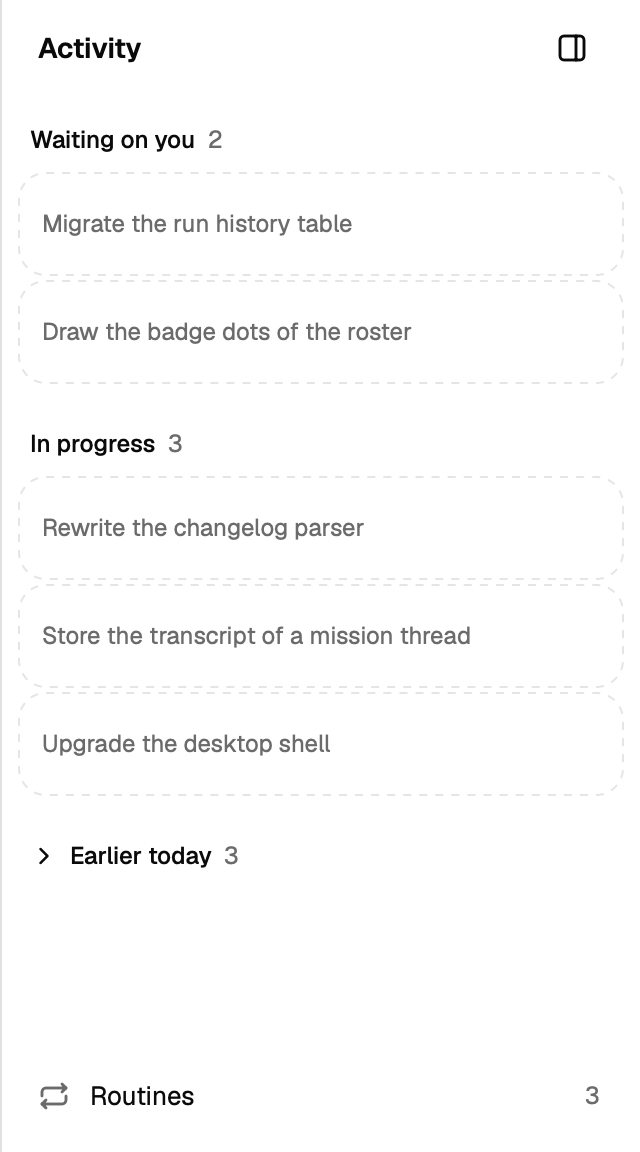
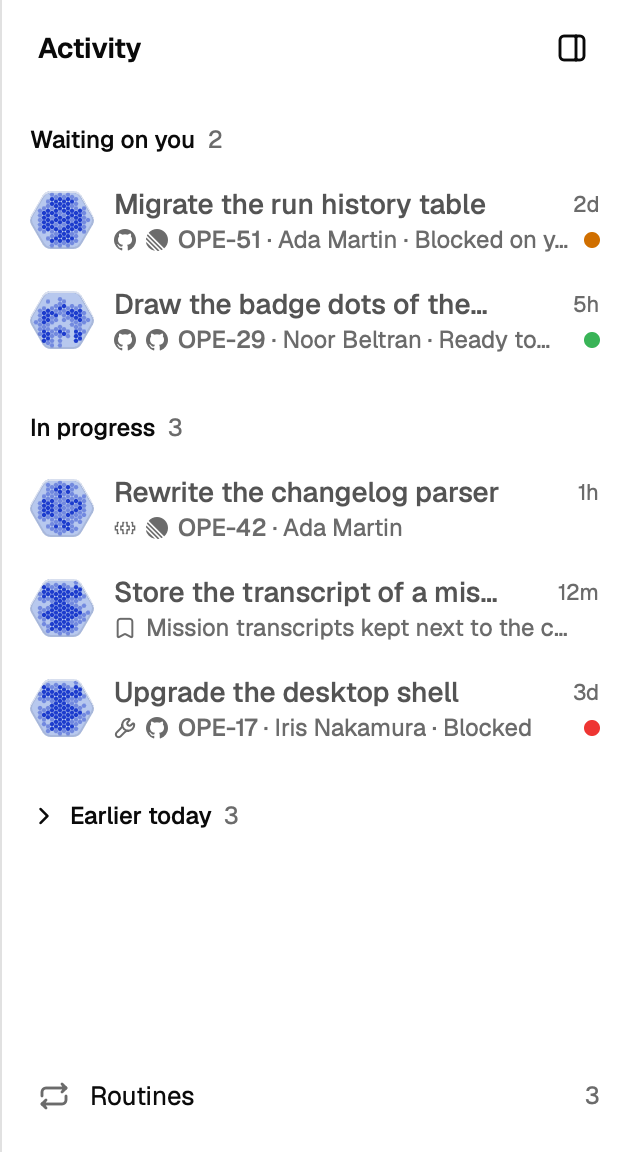
feat(rune-preview): draw the routines panel missions with the S8 views (OPE-1983)
The missions loading state uses missions_feed_skeleton from s08_missions,
the component the routines panel shows in packages/ui, instead of a local
copy with sharp hexagons. The panel scenes fill the mission slot with
S8's mission_row and its fixtures instead of dashed stand-ins. The eight
panel scenes that show missions get new macOS baselines; every other
scene still matches.

diff --git a/apps/rune-preview/kit/src/surfaces/s09_routines/panel.rs b/apps/rune-preview/kit/src/surfaces/s09_routines/panel.rs
@@ -1,19 +1,19 @@
 use std::f32::consts::TAU;
 
-use rune::{El, ScrollSpec, Shape, canvas, col, el, icon, row, text};
+use rune::{El, ScrollSpec, col, el, icon, row, text};
 
-use super::reported_run::{ACTIVITY_AVATAR, ReportedRun, reported_run_row};
+use super::reported_run::{ReportedRun, reported_run_row};
 use super::row::{ROW_GAP, RoutineRow, routine_row_skeleton, routine_rows};
 use super::{
-	Emit, Retry, RoutinesEvent, bar, bar_line, emits, empty_state, faint_bar, filling_skeleton,
-	glyph, icon_button, notice, ringed, say, tabular,
+	Emit, Retry, RoutinesEvent, emits, empty_state, filling_skeleton, glyph, icon_button, notice,
+	ringed, say, tabular,
 };
 use crate::icons;
 use crate::primitives::button::{Button, ButtonSize, ButtonVariant};
 use crate::primitives::dialog::scrim;
-use crate::primitives::skeleton::skeleton;
 use crate::primitives::{elevated, popup_motion};
 use crate::strings::{Key, Language, chat, common};
+use crate::surfaces::s08_missions::missions_feed_skeleton;
 use crate::tokens::{
 	RADIUS_2XL, RADIUS_LG, RADIUS_XL, SHELL_INSET, SPACING, TEXT_BASE_SEMIBOLD, TEXT_COMPACT,
 	TEXT_SM, TEXT_SM_SEMIBOLD, TEXT_XS, TEXT_XS_MEDIUM, Tokens, faded,
@@ -31,20 +31,7 @@ const FOLD_GLYPH: f32 = SPACING * 3.5;
 const ENTRY: f32 = SPACING * 10.0;
 const ENTRY_GLYPH: f32 = SPACING * 4.0;
 const SKELETON_ROWS: usize = 16;
-const SKELETON_GROUPS: usize = 8;
-const GROUP_BAR: f32 = SPACING * 2.25;
-const STAMP_BAR: f32 = SPACING * 7.0;
-const MISSION_GROUP_SHAPES: [(f32, &[(f32, f32)]); 2] = [
-	(SPACING * 23.0, &[(SPACING * 37.5, SPACING * 42.5), (SPACING * 31.0, SPACING * 37.5)]),
-	(
-		SPACING * 17.5,
-		&[
-			(SPACING * 42.0, SPACING * 46.0),
-			(SPACING * 33.0, SPACING * 24.0),
-			(SPACING * 36.0, SPACING * 40.0),
-		],
-	),
-];
+const FEED_REACH: f32 = SPACING * 512.0;
 const CONFIRM_WIDTH: f32 = SPACING * 88.0;
 const CONFIRM_INSET: f32 = SPACING * 5.0;
 
@@ -289,65 +276,6 @@ fn folded_group<S: 'static>(
 	if open { group.child(group_list(rows)) } else { group }
 }
 
-fn hexagon(t: &Tokens, side: f32) -> El {
-	let half = side / 2.0;
-	let corners: Vec<[f32; 2]> = (0..6)
-		.map(|corner| {
-			let angle = corner as f32 * TAU / 6.0;
-			[half + half * angle.cos(), half + half * angle.sin()]
-		})
-		.collect();
-	canvas(Shape::new().view_box(side, side).fill(corners, t.border)).size(side, side)
-}
-
-fn mission_row_skeleton(t: &Tokens, (title, preview): (f32, f32)) -> El {
-	row()
-		.w_full()
-		.gap(SPACING * 2.5)
-		.center_y()
-		.py(SPACING * 1.5)
-		.pl(SPACING * 1.5)
-		.pr(SPACING * 3.0)
-		.child(hexagon(t, ACTIVITY_AVATAR))
-		.child(
-			col()
-				.grow(1.0)
-				.min_w(0.0)
-				.child(
-					row()
-						.w_full()
-						.h(SPACING * 5.0)
-						.justify_between()
-						.center_y()
-						.child(bar(t, title))
-						.child(faint_bar(t, STAMP_BAR)),
-				)
-				.child(bar_line(SPACING * 4.0, faint_bar(t, preview))),
-		)
-}
-
-fn missions_skeleton(t: &Tokens) -> El {
-	let groups = (0..SKELETON_GROUPS).map(|rank| {
-		let (head, rows) = MISSION_GROUP_SHAPES[rank % MISSION_GROUP_SHAPES.len()];
-		col()
-			.w_full()
-			.child(
-				row()
-					.h(GROUP_HEAD)
-					.px(GROUP_HEAD_INSET)
-					.center_y()
-					.child(skeleton(t).size(head, GROUP_BAR).radius(GROUP_BAR).fill(t.border)),
-			)
-			.child(
-				col()
-					.w_full()
-					.gap(GROUP_ROW_GAP)
-					.children(rows.iter().map(|&widths| mission_row_skeleton(t, widths))),
-			)
-	});
-	filling_skeleton(groups, SPACING * 3.0)
-}
-
 pub fn activity<S: 'static>(
 	t: &Tokens,
 	lang: Language,
@@ -358,7 +286,7 @@ pub fn activity<S: 'static>(
 	let body = col().w_full().grow(1.0).gap(SPACING * 4.0);
 	let Missions::Listed { waiting, in_progress, earlier_today, earlier_today_open } = missions
 	else {
-		return body.child(missions_skeleton(t));
+		return body.child(filling_skeleton([missions_feed_skeleton(t, FEED_REACH)], 0.0));
 	};
 	if waiting.is_empty() && in_progress.is_empty() && earlier_today.is_empty() {
 		if notice_shown {

diff --git a/apps/rune-preview/kit/src/scenes/routines.rs b/apps/rune-preview/kit/src/scenes/routines.rs
@@ -1,8 +1,11 @@
-use rune::{El, TextEdit, col, row, text};
+use rune::{El, TextEdit, col, row};
 
-use super::{SceneState, stage, staged};
+use std::rc::Rc;
+
+use super::{SceneState, missions, stage, staged};
 use crate::hues::Preset;
 use crate::strings::Language;
+use crate::surfaces::s08_missions::{Emit as MissionsEmit, Mission, mission_row};
 use crate::surfaces::s09_routines::detail::{
 	History, Outcome, RoutineDetail, Run, RunRefusal, routine_detail,
 };
@@ -15,12 +18,10 @@ use crate::surfaces::s09_routines::panel::{
 	Confirm, EarlierToday, Failure, Missions, Page, PanelChrome, Routines, activity, confirm_layer,
 	panel, routines_page,
 };
-use crate::surfaces::s09_routines::reported_run::{
-	ACTIVITY_ROW_HEIGHT, ReportedRun, reported_run_row,
-};
+use crate::surfaces::s09_routines::reported_run::{ReportedRun, reported_run_row};
 use crate::surfaces::s09_routines::row::{RoutineRow, routine_row};
 use crate::surfaces::s09_routines::{PANEL_WIDTH, RoutinesEvent};
-use crate::tokens::{RADIUS_XL, SPACING, TEXT_XS, Tokens};
+use crate::tokens::{SPACING, Tokens};
 
 const EN: Language = Language::En;
 const SCENE_INSET: f32 = SPACING * 6.0;
@@ -172,14 +173,9 @@ const LATE_REPORTED_RUN: ReportedRun = ReportedRun {
 	time: "10:04",
 };
 
-const WAITING_MISSIONS: [&str; 2] =
-	["Migrate the run history table", "Draw the badge dots of the roster"];
-const WORKING_MISSIONS: [&str; 3] = [
-	"Rewrite the changelog parser",
-	"Store the transcript of a mission thread",
-	"Upgrade the desktop shell",
-];
-const CLOSED_MISSION: &str = "Let a bot manage its routines through MCP";
+const WAITING_MISSIONS: [Mission; 2] = [missions::WAITING_HUMAN_MISSION, missions::READY_MISSION];
+const WORKING_MISSIONS: [Mission; 3] =
+	[missions::WORKING_MISSION, missions::WAITING_BOT_MISSION, missions::FAILED_MISSION];
 
 fn ignore(_: &mut SceneState, _: RoutinesEvent) {}
 
@@ -209,34 +205,27 @@ fn at_height(t: &Tokens, content: El) -> El {
 	)
 }
 
-fn mission_slot(t: &Tokens, objective: &str) -> El {
-	row()
-		.w_full()
-		.h(ACTIVITY_ROW_HEIGHT)
-		.px(SPACING * 3.0)
-		.center_y()
-		.radius(RADIUS_XL)
-		.border(1.0, t.border)
-		.border_dash(SPACING, SPACING)
-		.child(text(objective.to_owned()).font(TEXT_XS).color(t.muted_foreground).truncate())
+fn mission_rows(t: &Tokens, missions: &[Mission]) -> Vec<El> {
+	missions.iter().map(|mission| mission_row_of(t, mission)).collect()
 }
 
-fn slots(t: &Tokens, objectives: &[&str]) -> Vec<El> {
-	objectives.iter().map(|objective| mission_slot(t, objective)).collect()
+fn mission_row_of(t: &Tokens, mission: &Mission) -> El {
+	let ignore_missions: MissionsEmit<SceneState> = Rc::new(|_, _| {});
+	mission_row(t, EN, mission, false, &ignore_missions, None)
 }
 
 fn earlier_today(t: &Tokens) -> Vec<EarlierToday<'static>> {
 	vec![
 		EarlierToday::Run(LATE_REPORTED_RUN),
-		EarlierToday::Mission(Box::new(mission_slot(t, CLOSED_MISSION))),
+		EarlierToday::Mission(Box::new(mission_row_of(t, &missions::CLOSED_MISSION))),
 		EarlierToday::Run(REPORTED_RUN),
 	]
 }
 
 fn every_mission(t: &Tokens, earlier_today_open: bool) -> Missions<'static> {
 	Missions::Listed {
-		waiting: slots(t, &WAITING_MISSIONS),
-		in_progress: slots(t, &WORKING_MISSIONS),
+		waiting: mission_rows(t, &WAITING_MISSIONS),
+		in_progress: mission_rows(t, &WORKING_MISSIONS),
 		earlier_today: earlier_today(t),
 		earlier_today_open,
 	}
@@ -284,7 +273,7 @@ pub(super) fn panel_default(t: &Tokens, _: &SceneState) -> El {
 
 pub(super) fn panel_one_mission(t: &Tokens, _: &SceneState) -> El {
 	let missions = Missions::Listed {
-		waiting: slots(t, &WAITING_MISSIONS[..1]),
+		waiting: mission_rows(t, &WAITING_MISSIONS[..1]),
 		in_progress: Vec::new(),
 		earlier_today: Vec::new(),
 		earlier_today_open: false,

diff --git a/apps/rune-preview/kit/src/scenes/missions.rs b/apps/rune-preview/kit/src/scenes/missions.rs
@@ -84,7 +84,7 @@ const BASE: Mission = Mission {
 	last_activity: None,
 };
 
-const WAITING_HUMAN_MISSION: Mission = Mission {
+pub(super) const WAITING_HUMAN_MISSION: Mission = Mission {
 	id: "mission-migration",
 	objective: "Migrate the run history table",
 	ticket: ticket("linear", "OPE-51", "Move the run history off the shared database"),
@@ -94,7 +94,7 @@ const WAITING_HUMAN_MISSION: Mission = Mission {
 	..BASE
 };
 
-const READY_MISSION: Mission = Mission {
+pub(super) const READY_MISSION: Mission = Mission {
 	id: "mission-badges",
 	bot: NOOR,
 	objective: "Draw the badge dots of the roster",
@@ -105,7 +105,7 @@ const READY_MISSION: Mission = Mission {
 	..BASE
 };
 
-const WORKING_MISSION: Mission = Mission {
+pub(super) const WORKING_MISSION: Mission = Mission {
 	id: "mission-parser",
 	objective: "Rewrite the changelog parser",
 	ticket: ticket("linear", "OPE-42", "Changelog parser"),
@@ -117,7 +117,7 @@ const WORKING_MISSION: Mission = Mission {
 	..BASE
 };
 
-const WAITING_BOT_MISSION: Mission = Mission {
+pub(super) const WAITING_BOT_MISSION: Mission = Mission {
 	id: "mission-transcript",
 	bot: IRIS,
 	objective: "Store the transcript of a mission thread",
@@ -127,7 +127,7 @@ const WAITING_BOT_MISSION: Mission = Mission {
 	..BASE
 };
 
-const FAILED_MISSION: Mission = Mission {
+pub(super) const FAILED_MISSION: Mission = Mission {
 	id: "mission-upgrade",
 	bot: IRIS,
 	objective: "Upgrade the desktop shell",
@@ -138,7 +138,7 @@ const FAILED_MISSION: Mission = Mission {
 	..BASE
 };
 
-const CLOSED_MISSION: Mission = Mission {
+pub(super) const CLOSED_MISSION: Mission = Mission {
 	id: "mission-tools",
 	bot: NOOR,
 	objective: "Let a bot manage its routines through MCP",

diff --git a/apps/rune-preview/kit/src/surfaces/s09_routines/reported_run.rs b/apps/rune-preview/kit/src/surfaces/s09_routines/reported_run.rs
@@ -6,8 +6,8 @@ use crate::icons;
 use crate::strings::{Language, chat};
 use crate::tokens::{RADIUS_XL, SPACING, TEXT_11, TEXT_SM_MEDIUM, TEXT_XS, Tokens};
 
-pub const ACTIVITY_ROW_HEIGHT: f32 = SPACING * 13.0;
-pub const ACTIVITY_AVATAR: f32 = SPACING * 8.0;
+const ACTIVITY_ROW_HEIGHT: f32 = SPACING * 13.0;
+const ACTIVITY_AVATAR: f32 = SPACING * 8.0;
 
 const NAME_LINE: f32 = SPACING * 5.0;
 const PREVIEW_LINE: f32 = SPACING * 4.0;
